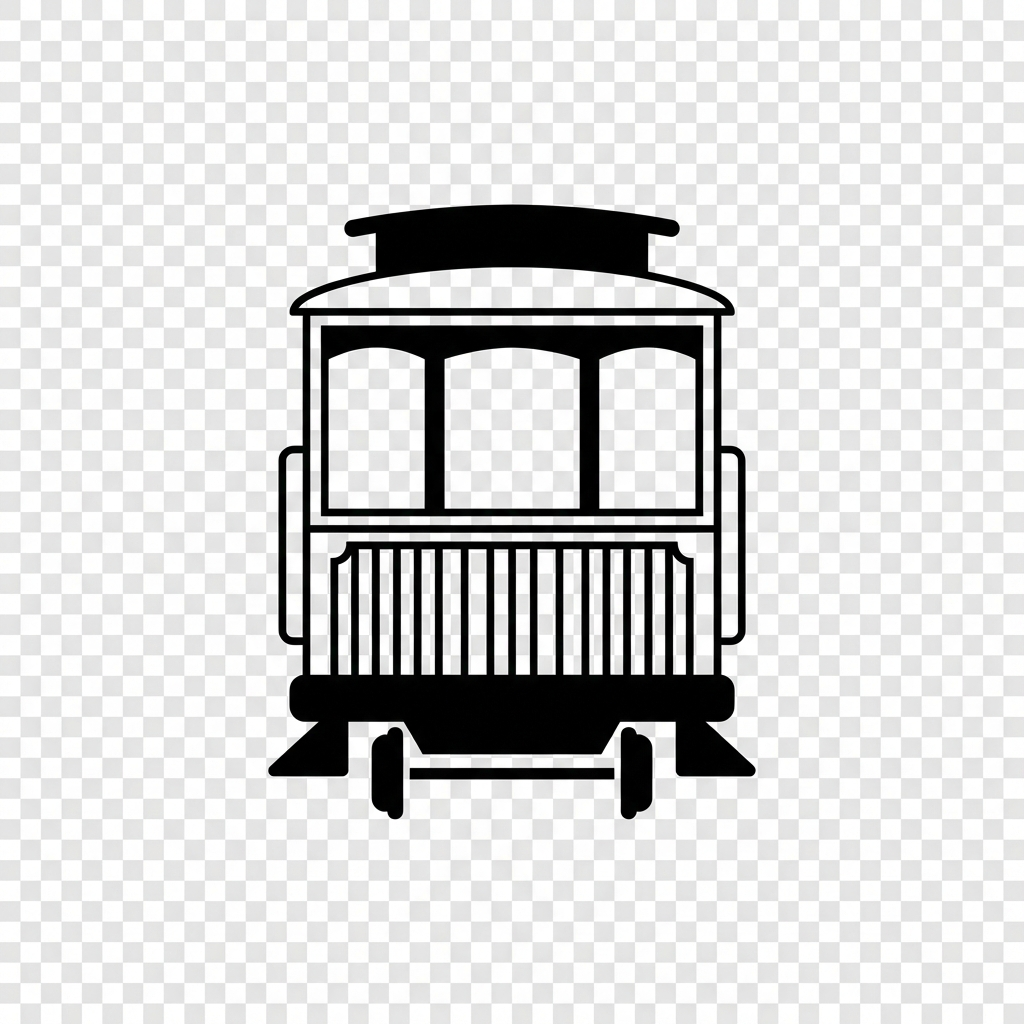
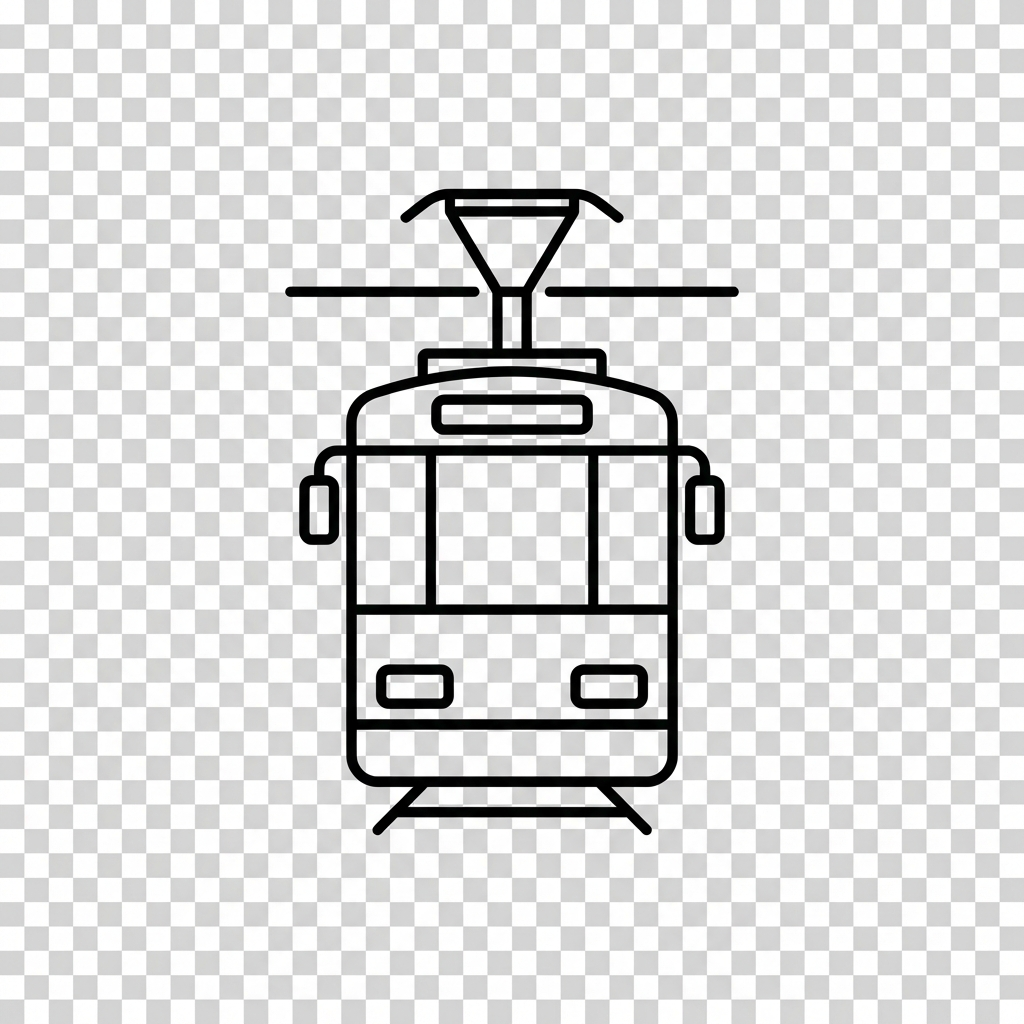
feat: Full GUI layout integration with left/right panels
- Add confidence bars, camera feeds, and people counts per side
- Update trolley asset with clean transparency
- Match projector display layout from sketch

diff --git a/trolley/gui_simple.py b/trolley/gui_simple.py
@@ -22,22 +22,36 @@ class TrolleySimpleGUI:
         
         # Pygame init
         pygame.init()
-        pygame.display.set_caption("Trolley Problem - Simple Diagram View")
+        pygame.display.set_caption("Trolley Problem - Projector Display")
         self.screen = pygame.display.set_mode((window_width, window_height))
         self.clock = pygame.time.Clock()
+        
+        # Fonts
+        self.font_small = pygame.font.Font(None, 32)
         self.font = pygame.font.Font(None, 48)
-        self.big_font = pygame.font.Font(None, 96)
+        self.font_large = pygame.font.Font(None, 72)
+        self.font_huge = pygame.font.Font(None, 120)
+        
+        # Layout: Left panel, Center tracks, Right panel
+        self.panel_width = int(window_width * 0.28)  # ~28% each side
+        self.center_width = window_width - (2 * self.panel_width)
+        
+        # Camera feed size within panels
+        self.cam_display_w = int(self.panel_width * 0.85)
+        self.cam_display_h = int(self.cam_display_w * 0.75)  # 4:3 aspect
         
         # Load Assets
         try:
             self.img_bg = pygame.image.load("assets/tracks_front_perspective.png").convert()
-            # Scale background to fit vertically, center horizontally
+            # Scale background to fit center area
             bg_w = self.img_bg.get_width()
             bg_h = self.img_bg.get_height()
             scale_bg = window_height / bg_h
             new_w = int(bg_w * scale_bg)
             self.img_bg = pygame.transform.scale(self.img_bg, (new_w, window_height))
-            self.bg_x = (window_width - new_w) // 2
+            # Center the track image in the center panel area
+            center_start = self.panel_width
+            self.bg_x = center_start + (self.center_width - new_w) // 2
             
             self.img_trolley = pygame.image.load("assets/simple_trolley.png").convert_alpha()
             self.trolley_base_w = self.img_trolley.get_width()
@@ -137,13 +151,103 @@ class TrolleySimpleGUI:
         surf = font.render(text, True, color)
         rect = surf.get_rect(center=(self.window_width // 2, y_pos))
         self.screen.blit(surf, rect)
+    
+    def _draw_panel(self, x_start, label, frame_cv2, conf_sum, count, is_left=True):
+        """Draw a side panel with confidence, camera feed, and count."""
+        panel_color = (240, 240, 240)  # Light gray panel background
+        border_color = (100, 100, 100)
+        
+        # Panel background
+        panel_rect = pygame.Rect(x_start, 0, self.panel_width, self.window_height)
+        pygame.draw.rect(self.screen, panel_color, panel_rect)
+        pygame.draw.rect(self.screen, border_color, panel_rect, 2)
+        
+        panel_cx = x_start + self.panel_width // 2
+        
+        # --- TOP: Confidence Sum ---
+        conf_label = self.font_small.render(f"{label} Sum Confidence", True, self.COLOR_TEXT)
+        conf_label_rect = conf_label.get_rect(center=(panel_cx, 30))
+        self.screen.blit(conf_label, conf_label_rect)
+        
+        conf_value = self.font_large.render(f"{conf_sum:.2f}", True, self.COLOR_TEXT)
+        conf_value_rect = conf_value.get_rect(center=(panel_cx, 80))
+        self.screen.blit(conf_value, conf_value_rect)
+        
+        # Confidence bar
+        bar_max_w = int(self.panel_width * 0.8)
+        bar_h = 20
+        bar_x = x_start + (self.panel_width - bar_max_w) // 2
+        bar_y = 110
+        bar_fill_w = int(min(conf_sum, 5.0) / 5.0 * bar_max_w)  # Max 5.0 for full bar
+        
+        pygame.draw.rect(self.screen, (200, 200, 200), (bar_x, bar_y, bar_max_w, bar_h))
+        bar_color = (0, 150, 255) if is_left else (255, 100, 100)
+        pygame.draw.rect(self.screen, bar_color, (bar_x, bar_y, bar_fill_w, bar_h))
+        pygame.draw.rect(self.screen, border_color, (bar_x, bar_y, bar_max_w, bar_h), 2)
+        
+        # --- MIDDLE: Camera Feed ---
+        cam_y = 150
+        cam_x = x_start + (self.panel_width - self.cam_display_w) // 2
+        
+        # Camera label
+        cam_label = self.font_small.render(f"Camera: Look {label}", True, self.COLOR_TEXT)
+        cam_label_rect = cam_label.get_rect(center=(panel_cx, cam_y + 10))
+        self.screen.blit(cam_label, cam_label_rect)
+        
+        cam_frame_y = cam_y + 30
+        
+        if frame_cv2 is not None:
+            try:
+                # Convert BGR to RGB
+                frame_rgb = cv2.cvtColor(frame_cv2, cv2.COLOR_BGR2RGB)
+                frame_rgb = np.rot90(frame_rgb)
+                
+                # Create Surface and scale
+                frame_surface = pygame.surfarray.make_surface(frame_rgb)
+                frame_surface = pygame.transform.scale(frame_surface, (self.cam_display_w, self.cam_display_h))
+                
+                # Draw border and feed
+                border_rect = pygame.Rect(cam_x - 2, cam_frame_y - 2, self.cam_display_w + 4, self.cam_display_h + 4)
+                pygame.draw.rect(self.screen, border_color, border_rect)
+                self.screen.blit(frame_surface, (cam_x, cam_frame_y))
+            except Exception as e:
+                # Draw placeholder if camera fails
+                placeholder_rect = pygame.Rect(cam_x, cam_frame_y, self.cam_display_w, self.cam_display_h)
+                pygame.draw.rect(self.screen, (180, 180, 180), placeholder_rect)
+                pygame.draw.rect(self.screen, border_color, placeholder_rect, 2)
+                no_cam = self.font_small.render("No Camera", True, self.COLOR_TEXT)
+                no_cam_rect = no_cam.get_rect(center=(panel_cx, cam_frame_y + self.cam_display_h // 2))
+                self.screen.blit(no_cam, no_cam_rect)
+        else:
+            # Draw placeholder
+            placeholder_rect = pygame.Rect(cam_x, cam_frame_y, self.cam_display_w, self.cam_display_h)
+            pygame.draw.rect(self.screen, (180, 180, 180), placeholder_rect)
+            pygame.draw.rect(self.screen, border_color, placeholder_rect, 2)
+            no_cam = self.font_small.render("No Feed", True, self.COLOR_TEXT)
+            no_cam_rect = no_cam.get_rect(center=(panel_cx, cam_frame_y + self.cam_display_h // 2))
+            self.screen.blit(no_cam, no_cam_rect)
+        
+        # --- BOTTOM: People Count ---
+        count_y = cam_frame_y + self.cam_display_h + 40
+        
+        count_label = self.font_small.render(f"Num People {label}", True, self.COLOR_TEXT)
+        count_label_rect = count_label.get_rect(center=(panel_cx, count_y))
+        self.screen.blit(count_label, count_label_rect)
+        
+        count_value = self.font_huge.render(str(count), True, self.COLOR_TEXT)
+        count_value_rect = count_value.get_rect(center=(panel_cx, count_y + 60))
+        self.screen.blit(count_value, count_value_rect)
 
-    def render(self, frame_cv2: Optional[np.ndarray], 
+    def render(self, 
+               left_frame_cv2: Optional[np.ndarray],
+               right_frame_cv2: Optional[np.ndarray],
                left_count: int, right_count: int, 
+               left_conf_sum: float, right_conf_sum: float,
                state_name: str, time_remaining: float,
                decision: str = "DEFAULT"):
+        """Main render loop."""
         
-        # Handling quit
+        # Event handling
         for event in pygame.event.get():
             if event.type == pygame.QUIT:
                 return False
@@ -151,47 +255,33 @@ class TrolleySimpleGUI:
                 if event.key == pygame.K_q:
                     return False
         
-        # Draw White BG
+        # Fill background
         self.screen.fill(self.COLOR_BG)
         
-        # Draw Tracks (Centered)
+        # Draw Center Tracks
         if self.assets_loaded:
             self.screen.blit(self.img_bg, (self.bg_x, 0))
-            
-        # Draw Camera Feed (Top Left corner, simple border)
-        if frame_cv2 is not None:
-             # Convert BGR to RGB
-            frame_rgb = cv2.cvtColor(frame_cv2, cv2.COLOR_BGR2RGB)
-            frame_rgb = np.rot90(frame_rgb)
-            
-            # Create Surface
-            frame_surface = pygame.surfarray.make_surface(frame_rgb)
-            frame_surface = pygame.transform.scale(frame_surface, (320, 240))
-            
-            # Draw border
-            border_rect = pygame.Rect(10, 10, 320 + 4, 240 + 4)
-            pygame.draw.rect(self.screen, self.COLOR_FRAME, border_rect)
-            self.screen.blit(frame_surface, (12, 12))
-            
-        # Draw Overlay Info
-        # Time
-        if state_name == "COUNTDOWN":
-            self._draw_text_centered(f"{time_remaining:.1f}s", self.big_font, self.COLOR_TEXT, 100)
-            
-        # State
-        state_surf = self.font.render(f"State: {state_name}", True, self.COLOR_TEXT)
-        self.screen.blit(state_surf, (self.window_width - 300, 20))
         
-        # Trolley
+        # Draw Trolley
         self._draw_trolley(state_name, decision, time_remaining)
         
-        # Counts (Simple layout: Left count on left, Right count on right)
-        left_text = self.font.render(str(left_count), True, self.COLOR_TEXT)
-        right_text = self.font.render(str(right_count), True, self.COLOR_TEXT)
+        # Draw Left Panel
+        self._draw_panel(0, "Left", left_frame_cv2, left_conf_sum, left_count, is_left=True)
         
-        # Position near the bottom tracks
-        self.screen.blit(left_text, (self.window_width // 2 - 200, self.window_height - 100))
-        self.screen.blit(right_text, (self.window_width // 2 + 200, self.window_height - 100))
+        # Draw Right Panel
+        right_panel_x = self.panel_width + self.center_width
+        self._draw_panel(right_panel_x, "Right", right_frame_cv2, right_conf_sum, right_count, is_left=False)
+        
+        # Draw Countdown Timer (centered, top of center area)
+        if state_name == "COUNTDOWN":
+            timer_text = self.font_huge.render(f"{time_remaining:.1f}", True, (200, 50, 50))
+            timer_rect = timer_text.get_rect(center=(self.window_width // 2, 80))
+            self.screen.blit(timer_text, timer_rect)
+        
+        # Draw State (centered below timer)
+        state_text = self.font.render(f"State: {state_name}", True, self.COLOR_TEXT)
+        state_rect = state_text.get_rect(center=(self.window_width // 2, 140))
+        self.screen.blit(state_text, state_rect)
         
         # Update Display
         pygame.display.flip()

diff --git a/run_trolley_gui.py b/run_trolley_gui.py
@@ -917,9 +917,15 @@ def run_simple_mode(args):
             controller._update_trolley_state()
             
             # Get data for rendering
-            current_frame = controller._left_frame if controller.current_scan_side == "LEFT" else controller._right_frame
-            if current_frame is None:
-                 current_frame = controller._get_frame()
+            left_frame = controller._left_frame
+            right_frame = controller._right_frame
+            
+            # Get current live frame if available
+            current_live_frame = controller._get_frame()
+            if left_frame is None:
+                left_frame = current_live_frame if controller.current_scan_side == "LEFT" else None
+            if right_frame is None:
+                right_frame = current_live_frame if controller.current_scan_side == "RIGHT" else None
 
             # State mapping
             state_name = controller.trolley_state.value
@@ -929,11 +935,18 @@ def run_simple_mode(args):
                  elapsed = time.time() - controller.countdown_start_time
                  time_rem = max(0, controller.COUNTDOWN_TIME - elapsed)
             
+            # Calculate confidence sums
+            left_conf_sum = sum(controller.left_confidences) if controller.left_confidences else 0.0
+            right_conf_sum = sum(controller.right_confidences) if controller.right_confidences else 0.0
+            
             # 2. Render
             running = view.render(
-                frame_cv2=current_frame,
+                left_frame_cv2=left_frame,
+                right_frame_cv2=right_frame,
                 left_count=controller.left_count,
                 right_count=controller.right_count,
+                left_conf_sum=left_conf_sum,
+                right_conf_sum=right_conf_sum,
                 state_name=state_name,
                 time_remaining=time_rem,
                 decision="DIVERT_RIGHT" if controller.decision == "DIVERT_RIGHT" else "DEFAULT"
